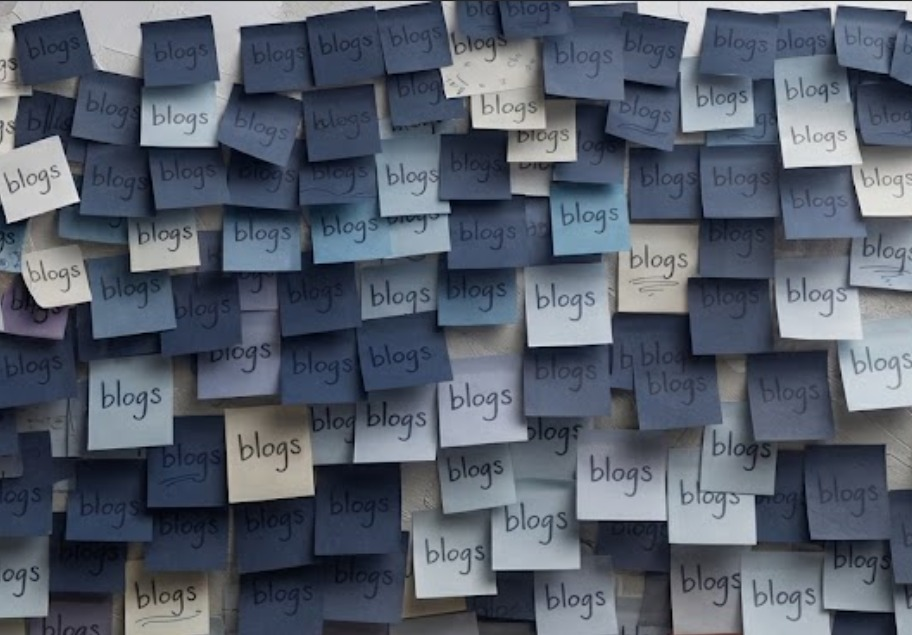
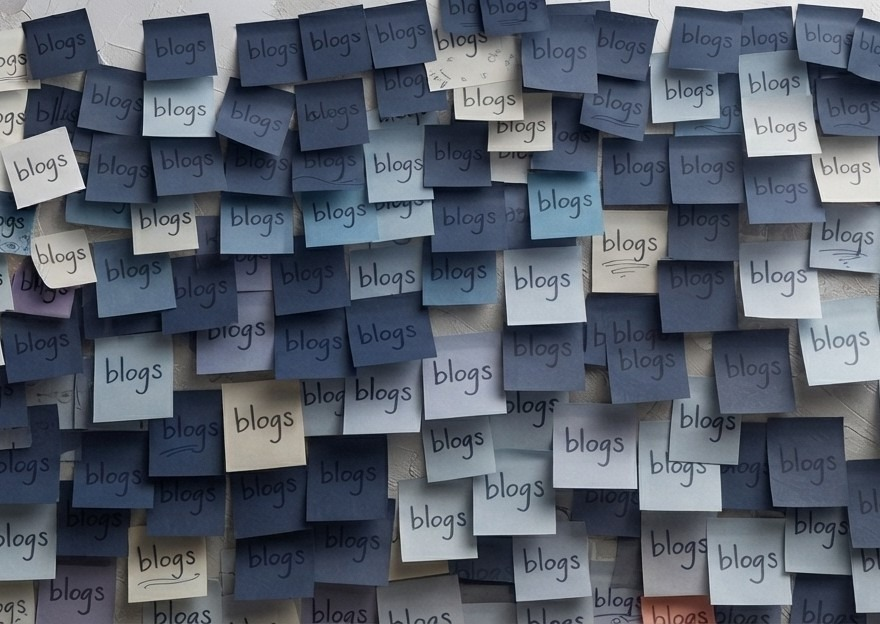
Update blog hero with new sticky-notes image.
Replace the blog page hero photo and bump cache busting so browsers load the new asset.

diff --git a/blog/index.html b/blog/index.html
@@ -77,7 +77,7 @@
           <p class="lead">Einblicke, Praxistipps und Neuigkeiten aus dem Sachverständigenbüro.</p>
         </div>
         <div class="page-hero__media">
-          <img src="../assets/blog/blog-hero.jpg?v=2" alt="" loading="lazy" />
+          <img src="../assets/blog/blog-hero.jpg?v=3" alt="" loading="lazy" />
         </div>
       </div>
     </section>

diff --git a/build_site.py b/build_site.py
@@ -12,7 +12,7 @@ LOGO_MONOGRAM = "assets/logo-monogram.png?v=6"
 ABOUT_HERO = "assets/about/about-hero.jpg?v=1"
 ABOUT_PORTRAIT = "assets/portrait-placeholder.png?v=1"
 CONTACT_HERO = "assets/hero-inspection.png"
-BLOG_HERO = "assets/blog/blog-hero.jpg?v=2"
+BLOG_HERO = "assets/blog/blog-hero.jpg?v=3"
 SIGNATURE_IMAGE = "assets/contact/selim-sabahoglu-signature.png?v=9"
 KONTAKT_SIGNATURE_STYLE = """
     <style>
